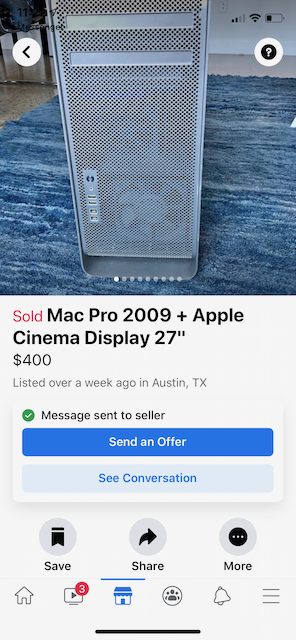
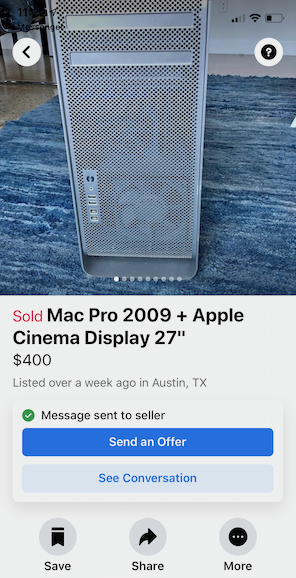
Cleaning some screenshot images and fixing typo

diff --git a/README.md b/README.md
@@ -83,7 +83,7 @@ There are a lot of CPU upgrade videos out there a few are linked below:
 
 **Time Required:** 10-15 min
 
-> **Finding:** Processor screws need to be tighten quite a bit. After if the Mac Pro is not booting keep tithing the screws quarter turn at a time till the system does not boot. Always tighten the screws in a criss cross pattern. 
+> **Finding:** Processor screws need to be tighten quite a bit. After if the Mac Pro is not booting keep tightening the screws quarter turn at a time till the system does not boot. Always tighten the screws in a criss cross pattern. 
 
 
 ### RAM Upgrade
